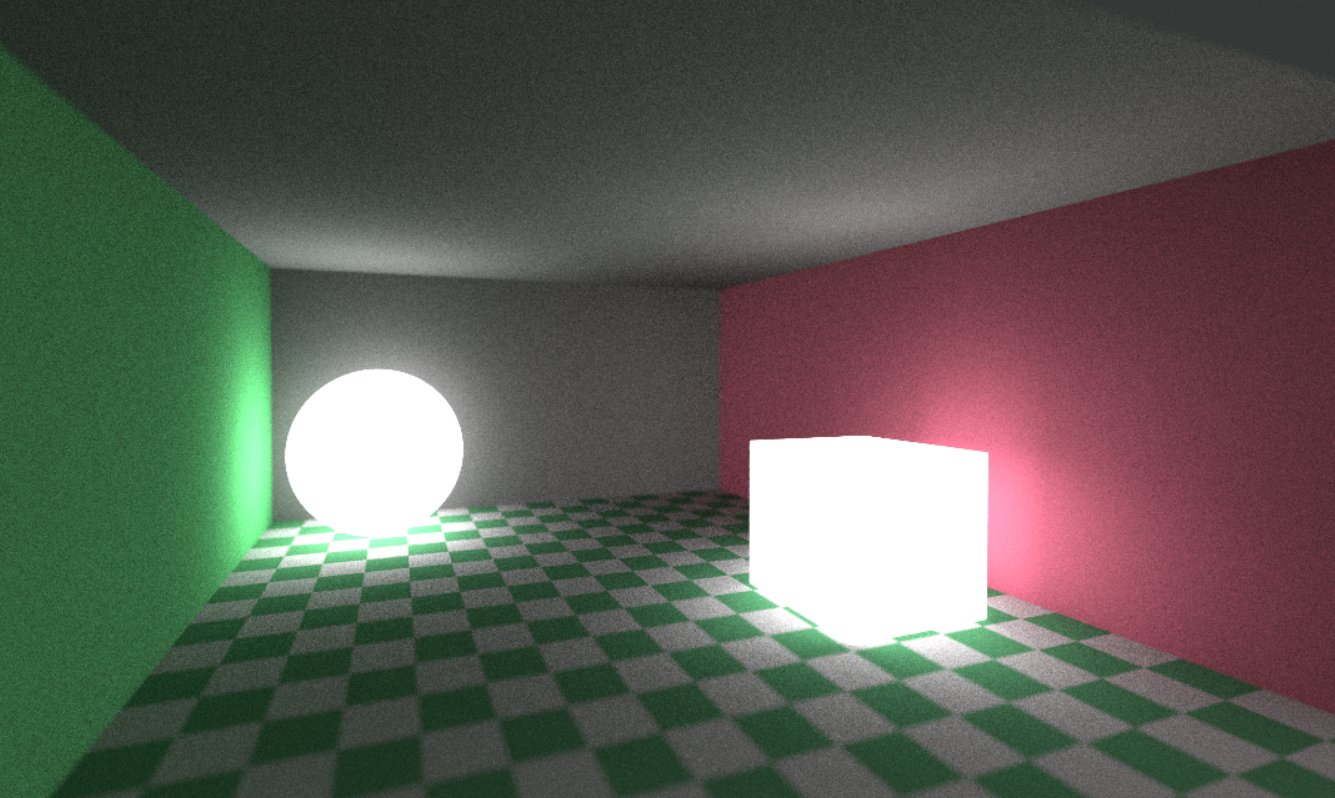
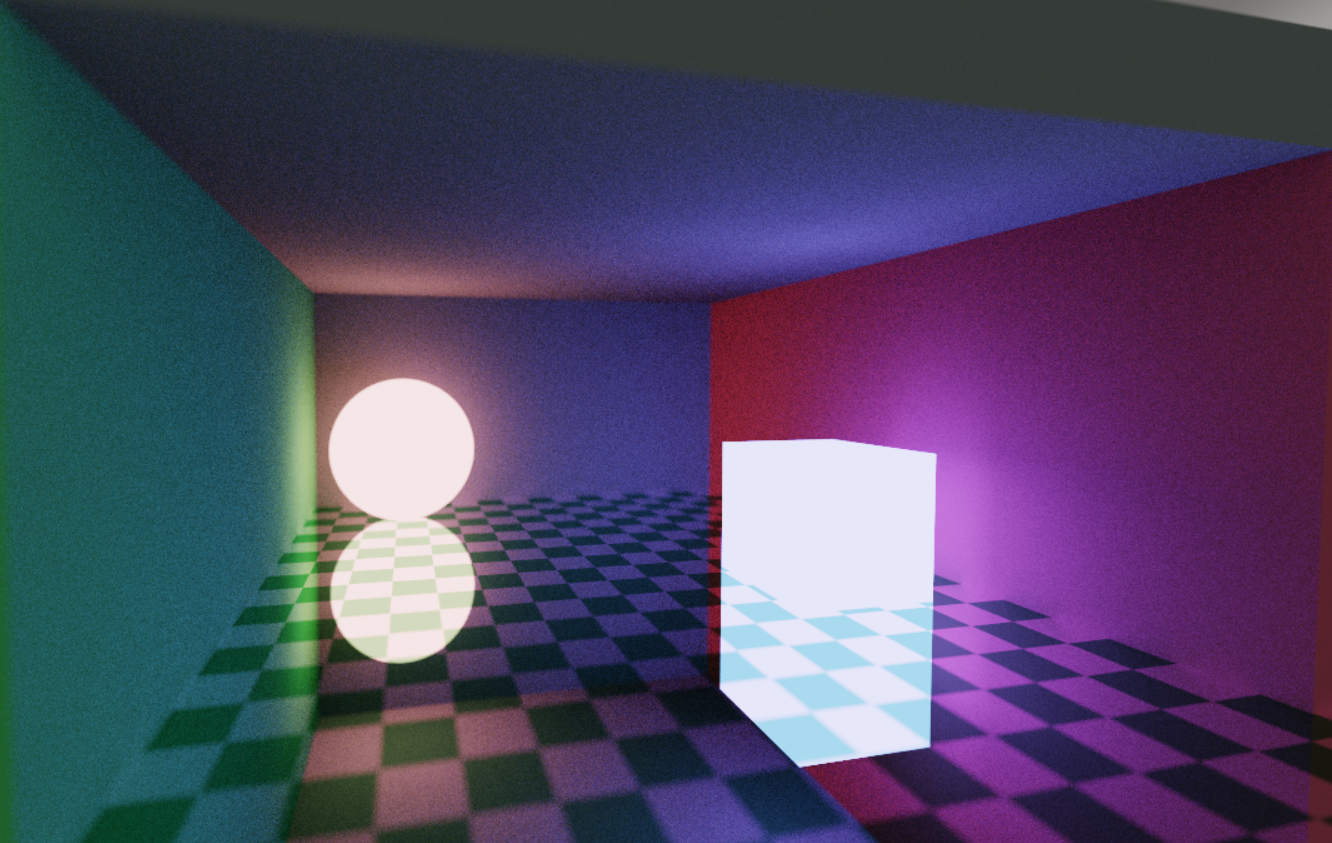
Colored lights

diff --git a/Raytracer/src/World.cpp b/Raytracer/src/World.cpp
@@ -14,7 +14,7 @@
 
 std::vector<Object*> CreateNoBoundingBoxObjects() {
 	std::vector<Object*> objs = std::vector<Object*>();
-	objs.push_back(new YPlane(0, Material::CreateDiffuse(Texture::CreateCheckered({1.0f, 1.0f, 1.0f}, {0.2f, 0.6f, 0.3f}))));
+	objs.push_back(new YPlane(0, Material::CreateMetal(Texture::CreateCheckered({1.0f, 1.0f, 1.0f}, {0.2f, 0.6f, 0.3f}))));
 	return objs;
 }
 BVH_Node CreateBoundingBoxObjects() {
@@ -39,8 +39,8 @@ BVH_Node CreateBoundingBoxObjects() {
 	objects.push_back(new AxisAlignedCube{ {-6, 0, 5}, {6, 6, 6 }, Material::CreateDiffuse(Texture::CreateColored({ 0.4f, 0.4f, 0.4f })) });
 	objects.push_back(new AxisAlignedCube{ {-6, 5, -6}, {6, 6, 6 }, Material::CreateDiffuse(Texture::CreateColored({ 0.4f, 0.4f, 0.4f })) });
 
-	objects.push_back(new Sphere{ {3, 1.5f, 3.5f}, 1.5f, Material::CreateDiffuseLight({5.0f, 5.0f, 5.0f}) });
-	objects.push_back(new AxisAlignedCube{ {-3, 1, -2}, 1.0f, Material::CreateDiffuseLight({5.0f, 5.0f, 5.0f}) });
+	objects.push_back(new Sphere{ {3, 1.5f, 3.5f}, 1.5f, Material::CreateDiffuseLight({5.0f, 2.0f, 2.0f}) });
+	objects.push_back(new AxisAlignedCube{ {-3, 1, -2}, 1.0f, Material::CreateDiffuseLight({2.0f, 2.0f, 10.0f}) });
 
 #endif
 
@@ -86,15 +86,12 @@ glm::u8vec3 World::CalculateColorForScreenPosition(int x, int y) {
 		}
 	}
 	color /= SAMPLES_PER_PIXEL_AXIS * SAMPLES_PER_PIXEL_AXIS;
-	color = glm::clamp(color, glm::vec3{ 0 }, glm::vec3{ 1 });
 
-	// Gamma color correct (for diffuse materials)
-	color = glm::sqrt(color);
+	// A good approximate for gamma correction that also clamps values from 0-infinity to 0-1. For this reason it also preserves highly lit areas.
+	const float steepness = 5.0f;
+	color = 1.0f - 1.0f / (1.0f + steepness * color);
 
 	glm::u8vec3 color8Bit = { (char)(color.r * 255), (char)(color.g * 255), (char)(color.b * 255) };
-	if (color8Bit.r == 159 && color8Bit.g == 19 && color8Bit.b == 194)
-		std::cout << x << " " << y << std::endl;
-
 	return color8Bit;
 }
 
@@ -114,7 +111,7 @@ glm::vec3 World::GetRayColor(const Ray& ray, int bounceAmount) {
 	}
 
 	if (hitInfo.object == nullptr) {
-		return 0.5f * GetSkyboxPixel(ray.direction);
+		return SKYBOX_BRIGHTNESS * GetSkyboxPixel(ray.direction);
 	}
 
 	const Material& material = hitInfo.object->material;
@@ -135,15 +132,15 @@ glm::vec3 World::GetRayColor(const Ray& ray, int bounceAmount) {
 			return pixelColor;
 		}
 		case MaterialType::Metal: {
-			if (bounceAmount == 0 || material.reflectiveness == 0)
-				return glm::vec3{ 0 };//return material.texture->GetColorValue(hitInfo.uv, hitInfo.point);
+			if (bounceAmount == 0)
+				return glm::vec3{ 0 };
 
 			Ray reflectedRay;
 			reflectedRay.pos = hitInfo.point;
 			reflectedRay.direction = glm::normalize(ray.direction - 2.0f * hitInfo.normal * glm::dot(ray.direction, hitInfo.normal));
+			glm::vec3 newRayCol = GetRayColor(reflectedRay, bounceAmount - 1);
 
-			glm::vec3 pixelColor = 2.0f * (1.0f - material.reflectiveness) * material.texture->GetColorValue(hitInfo.uv, hitInfo.point)
-				* material.reflectiveness * GetRayColor(reflectedRay, bounceAmount - 1);
+			glm::vec3 pixelColor = material.texture->GetColorValue(hitInfo.uv, hitInfo.point) * newRayCol;
 			return pixelColor;
 		}
 		case MaterialType::DiffuseLight: {
@@ -162,30 +159,6 @@ glm::vec3 World::GetSkyboxPixel(const glm::vec3& direction) {
 	int intPixelY = (int)pixel.y;
 
 	return GetSkyboxPixel(intPixelX, intPixelY);
-
-	/*
-	float Xfraction = (intPixelX + 0.5f - pixel.x);
-	float Yfraction = (intPixelY + 0.5f - pixel.y);
-	float absX = glm::abs(Xfraction);
-	float absY = glm::abs(Yfraction);
-
-	float originalMultiplier = (1.0f - absX) * (1.0f - absY);
-	float otherXMultiplier = absX * (1.0f - absY);
-	float otherYMultiplier = (1.0f - absX) * absY;
-	float otherXYMultiplier = absX * absY;
-
-	int otherX = Xfraction < 0 ? (intPixelX + 1) : (intPixelX - 1);
-	int otherY = Yfraction < 0 ? (intPixelY + 1) : (intPixelY - 1);
-	otherX = otherX < 0 ? otherX + skybox.size.x : otherX % skybox.size.x;
-	otherY = otherY < 0 ? otherY + skybox.size.x : otherY % skybox.size.y;
-
-	glm::vec3 col = GetSkyboxPixel(intPixelX, intPixelY) * originalMultiplier;
-	col += GetSkyboxPixel(otherX, intPixelY) * otherXMultiplier;
-	col += GetSkyboxPixel(intPixelX, otherY) * otherYMultiplier;
-	col += GetSkyboxPixel(otherX, otherY) * otherXYMultiplier;
-
-	return col;
-	//*/
 }
 glm::vec3 World::GetSkyboxPixel(int x, int y) {
 	int index = 3 * (int)(y * skybox.size.x + x);

diff --git a/Raytracer/src/DataUtility.h b/Raytracer/src/DataUtility.h
@@ -103,12 +103,11 @@ enum class MaterialType {
 };
 struct Material {
 	Material() = default;
-	static Material CreateDiffuse(std::shared_ptr<Texture> tex) { return Material{ MaterialType::Diffuse, 0.0f, tex }; }
-	static Material CreateMetal(float reflectiveness, std::shared_ptr<Texture> tex) { return Material{ MaterialType::Metal, reflectiveness, tex }; }
-	static Material CreateDiffuseLight(glm::vec3 emittingColor) { return Material{ MaterialType::DiffuseLight, 0.0f, nullptr, emittingColor }; }
+	static Material CreateDiffuse(std::shared_ptr<Texture> tex) { return Material{ MaterialType::Diffuse, tex }; }
+	static Material CreateMetal(std::shared_ptr<Texture> tex) { return Material{ MaterialType::Metal, tex }; }
+	static Material CreateDiffuseLight(glm::vec3 emittingColor) { return Material{ MaterialType::DiffuseLight, nullptr, emittingColor }; }
 
 	MaterialType materialType = MaterialType::None;
-	float reflectiveness = 0.0f;
 	std::shared_ptr<Texture> texture;
 	glm::vec3 emittingColor = glm::vec3{ 0 }; // Could also be a texture at some point
 };

diff --git a/Raytracer/src/Constants.h b/Raytracer/src/Constants.h
@@ -10,10 +10,11 @@
 
 //  QUALITY  //
 #define FIELD_OF_VIEW 1.5f
+#define SKYBOX_BRIGHTNESS 0.5f
 #define DEPTH_OF_FIELD_INTENSITY 0.1f
 #define FOCUS_DISTANCE 10.0f
 #define LIGHT_BOUNCE_AMOUNT 3
-#define SAMPLES_PER_PIXEL_AXIS 4 /* This number squared, since it is looped for both axis */
+#define SAMPLES_PER_PIXEL_AXIS 3 /* This number squared, since it is looped for both axis */
 
 //  GAMEPLAY  //
 #define CAN_MOVE_CAMERA true
